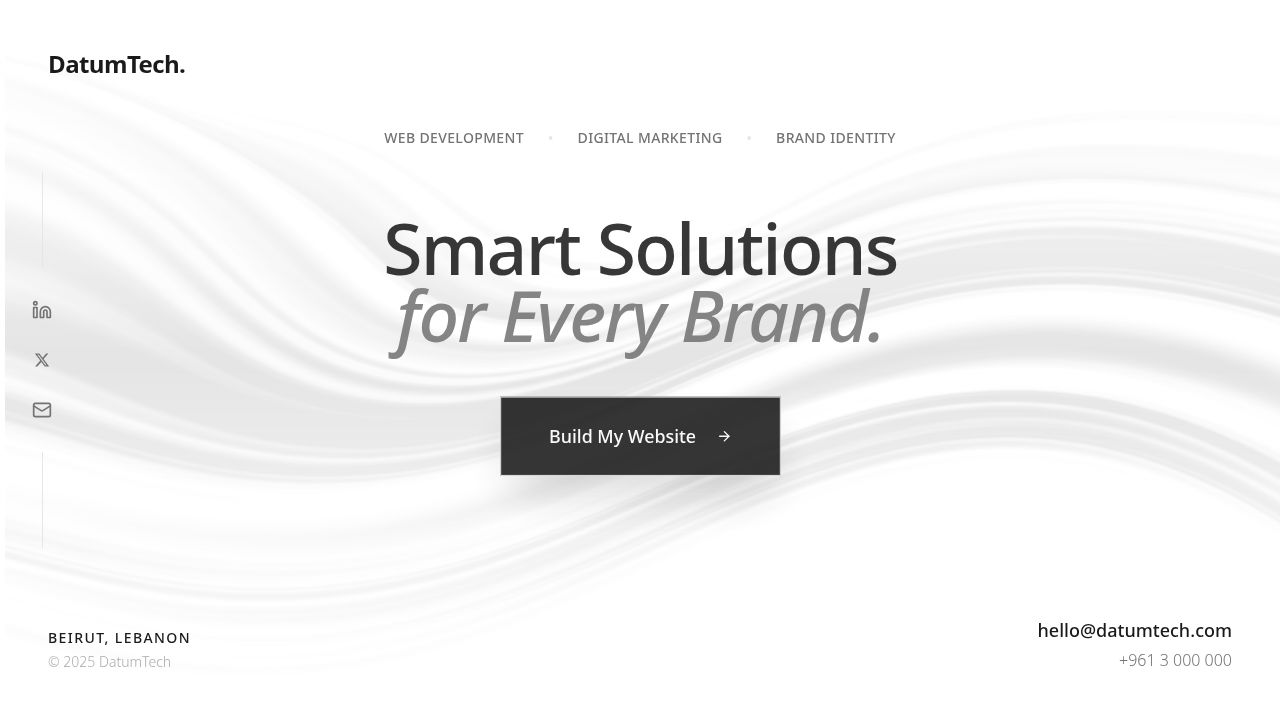
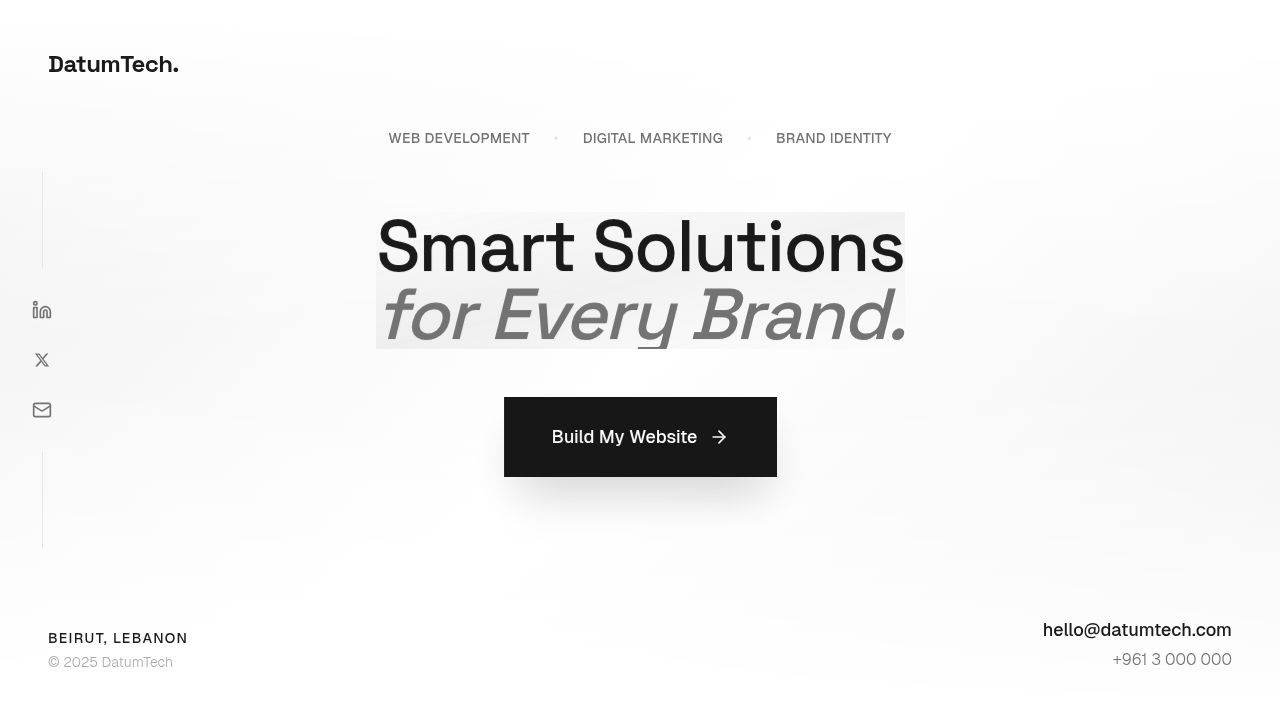
Add animated gradient backgrounds to the hero section
Define `@keyframes gradientShift` and apply two layered gradient backgrounds with different animation speeds and directions to the hero heading container in `client/index.html`.

Replit-Commit-Author: Agent
Replit-Commit-Session-Id: 47a8e106-f118-4bb9-bd44-e1fb03fa4657
Replit-Commit-Checkpoint-Type: full_checkpoint
Replit-Commit-Event-Id: 8dd2dc2d-7964-41c1-b93d-72bc8a5414dc
Replit-Commit-Screenshot-Url: https://storage.googleapis.com/screenshot-production-us-central1/a9d355a1-3046-4cba-b1a1-2083b4b99bc4/47a8e106-f118-4bb9-bd44-e1fb03fa4657/N3wi220
Replit-Helium-Checkpoint-Created: true

diff --git a/client/index.html b/client/index.html
@@ -76,6 +76,12 @@
       .hero-heading-container {
         position: relative;
       }
+      
+      @keyframes gradientShift {
+        0% { opacity: 0.3; }
+        50% { opacity: 0.8; }
+        100% { opacity: 0.3; }
+      }
     </style>
   </head>
   <body>
@@ -156,7 +162,11 @@
       <!-- CENTER: Hero Content -->
       <main class="relative z-10 max-w-5xl px-6 text-center mt-[-2rem]">
         <div id="hero-content" class="space-y-12 opacity-0 scale-95 transition-all duration-1000 ease-out">
-          <div class="hero-heading-container relative flex items-center justify-center">
+          <div class="hero-heading-container relative flex items-center justify-center overflow-hidden">
+            <!-- Animated gradient background -->
+            <div class="absolute inset-0 z-0 bg-gradient-to-br from-transparent via-black/5 to-transparent animate-pulse" style="animation: gradientShift 8s ease-in-out infinite;"></div>
+            <div class="absolute inset-0 z-0 bg-gradient-to-tl from-transparent via-white/5 to-transparent" style="animation: gradientShift 10s ease-in-out infinite; animation-direction: reverse;"></div>
+            
             <h1 class="text-4xl md:text-6xl lg:text-7xl font-serif font-medium leading-[0.95] tracking-tight relative z-20">
               Smart Solutions <br/>
               <span class="text-muted-foreground italic">for Every Brand.</span>
